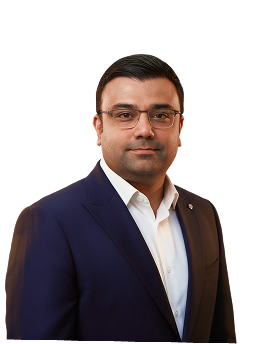
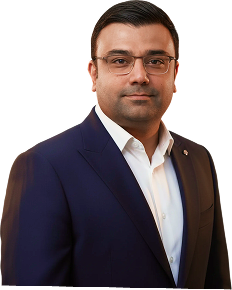
fix: TeamTeaser — برش حاشیه شفاف عکسها (بزرگتر و بدون بکگراند اضافه)، پترن سبز کارت بنیانگذار، opacity پترنها کمتر، عکسها object-contain طبیعی

diff --git a/src/views/Home/sections/TeamTeaser/index.jsx b/src/views/Home/sections/TeamTeaser/index.jsx
@@ -1,7 +1,7 @@
 "use client";
 
 import Container from "../../../../layout/Container";
-import { ChevronLeftIcon } from "../../../../common/Icons";
+import { ChevronLeftIcon, LinkedInIcon, InstagramIcon, TwitterIcon, GlobeIcon } from "../../../../common/Icons";
 
 const sectionPattern = "/assets/Pattern/layout-pattern.png";
 
@@ -111,10 +111,10 @@ const THEMES = {
 ========================================================= */
 
 const socialLinks = [
-  { label: "لینکدین", href: "#" },
-  { label: "اینستاگرام", href: "#" },
-  { label: "توییتر", href: "#" },
-  { label: "وبسایت", href: "#" },
+  { label: "لینکدین", href: "#", Icon: LinkedInIcon, bg: "bg-[#eef7ff]", border: "border-[#70b8e8]", fg: "text-[#0a78b5]" },
+  { label: "اینستاگرام", href: "#", Icon: InstagramIcon, bg: "bg-[#fdf1f6]", border: "border-[#e77cb0]", fg: "text-[#d62976]" },
+  { label: "توییتر", href: "#", Icon: TwitterIcon, bg: "bg-[#eef8fd]", border: "border-[#77c8f0]", fg: "text-[#1da1f2]" },
+  { label: "وبسایت", href: "#", Icon: GlobeIcon, bg: "bg-[#eef1f8]", border: "border-[#9aa4c8]", fg: "text-[#21295a]" },
 ];
 
 /* =========================================================
@@ -137,16 +137,15 @@ function MiniCard({ member }) {
             src={theme.pattern}
             alt=""
             draggable="false"
-            className="absolute inset-0 w-full h-full object-cover select-none"
+            className="absolute inset-0 w-full h-full object-cover select-none opacity-50"
           />
           <img
             src={member.image}
             alt={member.name}
             loading="lazy"
             draggable="false"
-            className="relative z-10 w-full h-full object-contain object-top"
+            className="absolute inset-x-0 bottom-0 z-10 w-full h-full object-contain object-bottom"
           />
-          <div className="absolute inset-0 bg-black/5" />
         </div>
 
         {/* اطلاعات */}
@@ -158,17 +157,19 @@ function MiniCard({ member }) {
             {member.role}
           </p>
 
-          <div className="flex justify-between items-center pt-2.5 border-t-[0.125rem] border-dashed border-[#292827]/20">
-            <div className="flex gap-1">
-              <span className={`w-3.5 h-2.5 rounded-[2px_4px_2px_4px] ${theme.pill1}`} />
-              <span className={`w-3.5 h-2.5 rounded-[2px_4px_2px_4px] ${theme.pill2}`} />
-              <span className={`w-3.5 h-2.5 rounded-[2px_4px_2px_4px] ${theme.pill3}`} />
-            </div>
-            <span
-              className={`px-2.5 py-1 rounded-full text-[0.625rem] font-extrabold ${theme.badgeBg} ${theme.badgeText}`}
-            >
-              {member.badge}
-            </span>
+          <div className="flex justify-start gap-1.5 pt-2.5 border-t-[0.125rem] border-dashed border-[#292827]/20">
+            {socialLinks.slice(0, 3).map(({ label, href, Icon, bg, border, fg }, i) => (
+              <a
+                key={i}
+                href={href}
+                aria-label={label}
+                target="_blank"
+                rel="noreferrer"
+                className={`inline-flex items-center justify-center w-[1.2rem] h-[1.2rem] sm:w-[1.25rem] sm:h-[1.25rem] ${bg} border ${border} ${fg} rounded-[0.2rem] shrink-0 transition-transform hover:-translate-y-0.5`}
+              >
+                <Icon className="w-[55%] h-[55%]" />
+              </a>
+            ))}
           </div>
         </div>
       </div>
@@ -216,7 +217,7 @@ export default function TeamTeaser() {
         </div>
 
         {/* ── گرید اصلی: Featured + Mini Grid ── */}
-        <div className="grid grid-cols-1 lg:grid-cols-[1.6fr_1.4fr] gap-8 lg:gap-10 items-start">
+        <div className="grid grid-cols-1 lg:grid-cols-[1.4fr_1.6fr] gap-8 lg:gap-10 items-start">
           {/* ════ Featured — بنیانگذار (راست در RTL) ════ */}
           <div className="relative order-1">
             <div className="absolute -top-4 -right-3 sm:-right-4 z-20 bg-[#ffd641] text-[#292827] border-2 border-[#292827] rounded-[0_0.75rem_0_0.75rem] px-3 py-1.5 font-black text-[0.75rem] rotate-3 shadow-[3px_3px_0_#292827] whitespace-nowrap">
@@ -231,22 +232,21 @@ export default function TeamTeaser() {
               />
               <div className="relative z-10 bg-[#58bdaf] border-[0.15625rem] border-[#292827] rounded-[0_1.75rem_0_1.75rem] [corner-shape:squircle] overflow-hidden">
                 {/* عکس بزرگ — پترن فیروزهای پشت، عکس متناسب با ابعاد خودش */}
-                <div className="relative h-[17rem] sm:h-[19rem] lg:h-[21.25rem] overflow-hidden">
-                  <img
-                    src={patternGreen}
-                    alt=""
-                    draggable="false"
-                    className="absolute inset-0 w-full h-full object-cover select-none"
-                  />
-                  <img
-                    src={FEATURED.image}
-                    alt={FEATURED.name}
-                    loading="lazy"
-                    draggable="false"
-                    className="relative z-10 w-full h-full object-contain object-top"
-                  />
-                  <div className="absolute inset-0 bg-[#58bdaf]/10" />
-                </div>
+                <div className="relative h-[19.8125rem] sm:h-[25.8125rem] lg:h-[30.8125rem] overflow-hidden">
+                                  <img
+                                    src={patternGreen}
+                                    alt=""
+                                    draggable="false"
+                                    className="absolute inset-0 w-full h-full object-cover select-none opacity-50"
+                                  />
+                                  <img
+                                    src={FEATURED.image}
+                                    alt={FEATURED.name}
+                                    loading="lazy"
+                                    draggable="false"
+                                    className="absolute inset-x-0 bottom-0 z-10 w-full h-full object-contain object-bottom"
+                                  />
+                                </div>
 
                 {/* اطلاعات */}
                 <div className="p-5 sm:p-6 bg-white">
@@ -260,16 +260,18 @@ export default function TeamTeaser() {
                     {FEATURED.desc}
                   </p>
 
-                  {/* شبکههای اجتماعی — پایین راست کارت */}
-                  <div className="flex justify-end gap-2 mt-4 pt-3.5 border-t-[0.125rem] border-dashed border-[#292827]/20">
-                    {socialLinks.map((link, i) => (
+                  {/* شبکههای اجتماعی — پایین کارت، راست */}
+                  <div className="flex justify-start gap-2 mt-4 pt-3.5 border-t-[0.125rem] border-dashed border-[#292827]/20">
+                    {socialLinks.map(({ label, href, Icon, bg, border, fg }, i) => (
                       <a
                         key={i}
-                        href={link.href}
-                        aria-label={link.label}
-                        className="w-8 h-8 sm:w-9 sm:h-9 bg-[#347e75] rounded-[0.4rem] [corner-shape:squircle] flex items-center justify-center transition-all hover:-translate-y-0.5"
+                        href={href}
+                        aria-label={label}
+                        target="_blank"
+                        rel="noreferrer"
+                        className={`inline-flex items-center justify-center w-[1.5rem] h-[1.5rem] sm:w-[1.6rem] sm:h-[1.6rem] ${bg} border ${border} ${fg} rounded-[0.25rem] shrink-0 transition-transform hover:-translate-y-0.5`}
                       >
-                        <span className="text-white text-[0.5rem] font-bold">{link.label.charAt(0)}</span>
+                        <Icon className="w-[55%] h-[55%]" />
                       </a>
                     ))}
                   </div>
@@ -280,7 +282,7 @@ export default function TeamTeaser() {
 
           {/* ════ Mini Grid — ۲×۲ ════ */}
           <div className="order-2">
-            <div className="grid grid-cols-2 gap-6 sm:gap-7">
+            <div className="grid grid-cols-2 gap-8 sm:gap-10">
               {MEMBERS.map((member, i) => (
                 <div
                   key={member.name}

diff --git a/src/common/Icons/index.jsx b/src/common/Icons/index.jsx
@@ -191,3 +191,35 @@ export function SwirlArrowIcon(props) {
     </svg>
   );
 }
+export function LinkedInIcon(props) {
+  return (
+    <svg viewBox="0 0 24 24" fill="currentColor" {...props}>
+      <path d="M20.447 20.452h-3.554v-5.569c0-1.328-.027-3.037-1.852-3.037-1.853 0-2.136 1.445-2.136 2.939v5.667H9.351V9h3.414v1.561h.046c.477-.9 1.637-1.85 3.37-1.85 3.601 0 4.267 2.37 4.267 5.455v6.286zM5.337 7.433a2.062 2.062 0 01-2.063-2.065 2.064 2.064 0 112.063 2.065zm1.782 13.019H3.555V9h3.564v11.452zM22.225 0H1.771C.792 0 0 .774 0 1.729v20.542C0 23.227.792 24 1.771 24h20.451C23.2 24 24 23.227 24 22.271V1.729C24 .774 23.2 0 22.222 0h.003z" />
+    </svg>
+  );
+}
+
+export function InstagramIcon(props) {
+  return (
+    <svg viewBox="0 0 24 24" fill="currentColor" {...props}>
+      <path d="M12 2.163c3.204 0 3.584.012 4.85.07 3.252.148 4.771 1.691 4.919 4.919.058 1.265.069 1.645.069 4.849 0 3.205-.012 3.584-.069 4.849-.149 3.225-1.664 4.771-4.919 4.919-1.266.058-1.644.07-4.85.07-3.204 0-3.584-.012-4.849-.07-3.26-.149-4.771-1.699-4.919-4.92-.058-1.265-.07-1.644-.07-4.849 0-3.204.013-3.583.07-4.849.149-3.227 1.664-4.771 4.919-4.919 1.266-.057 1.645-.069 4.849-.069zM12 0C8.741 0 8.333.014 7.053.072 2.695.272.273 2.69.073 7.052.014 8.333 0 8.741 0 12c0 3.259.014 3.668.072 4.948.2 4.358 2.618 6.78 6.98 6.98C8.333 23.986 8.741 24 12 24c3.259 0 3.668-.014 4.948-.072 4.354-.2 6.782-2.618 6.979-6.98.059-1.28.073-1.689.073-4.948 0-3.259-.014-3.667-.072-4.947-.196-4.354-2.617-6.78-6.979-6.98C15.668.014 15.259 0 12 0zm0 5.838a6.162 6.162 0 100 12.324 6.162 6.162 0 000-12.324zM12 16a4 4 0 110-8 4 4 0 010 8zm6.406-11.845a1.44 1.44 0 100 2.881 1.44 1.44 0 000-2.881z" />
+    </svg>
+  );
+}
+
+export function TwitterIcon(props) {
+  return (
+    <svg viewBox="0 0 24 24" fill="currentColor" {...props}>
+      <path d="M18.244 2.25h3.308l-7.227 8.26 8.502 11.24H16.17l-5.214-6.817L4.99 21.75H1.68l7.73-8.835L1.254 2.25H8.08l4.713 6.231zm-1.161 17.52h1.833L7.084 4.126H5.117z" />
+    </svg>
+  );
+}
+
+export function GlobeIcon(props) {
+  return (
+    <svg viewBox="0 0 24 24" fill="none" {...props}>
+      <circle cx="12" cy="12" r="9" stroke="currentColor" strokeWidth="2" />
+      <path d="M3 12h18M12 3c2 3 3 6 3 9s-1 6-3 9c-2-3-3-6-3-9s1-6 3-9z" stroke="currentColor" strokeWidth="2" />
+    </svg>
+  );
+}
